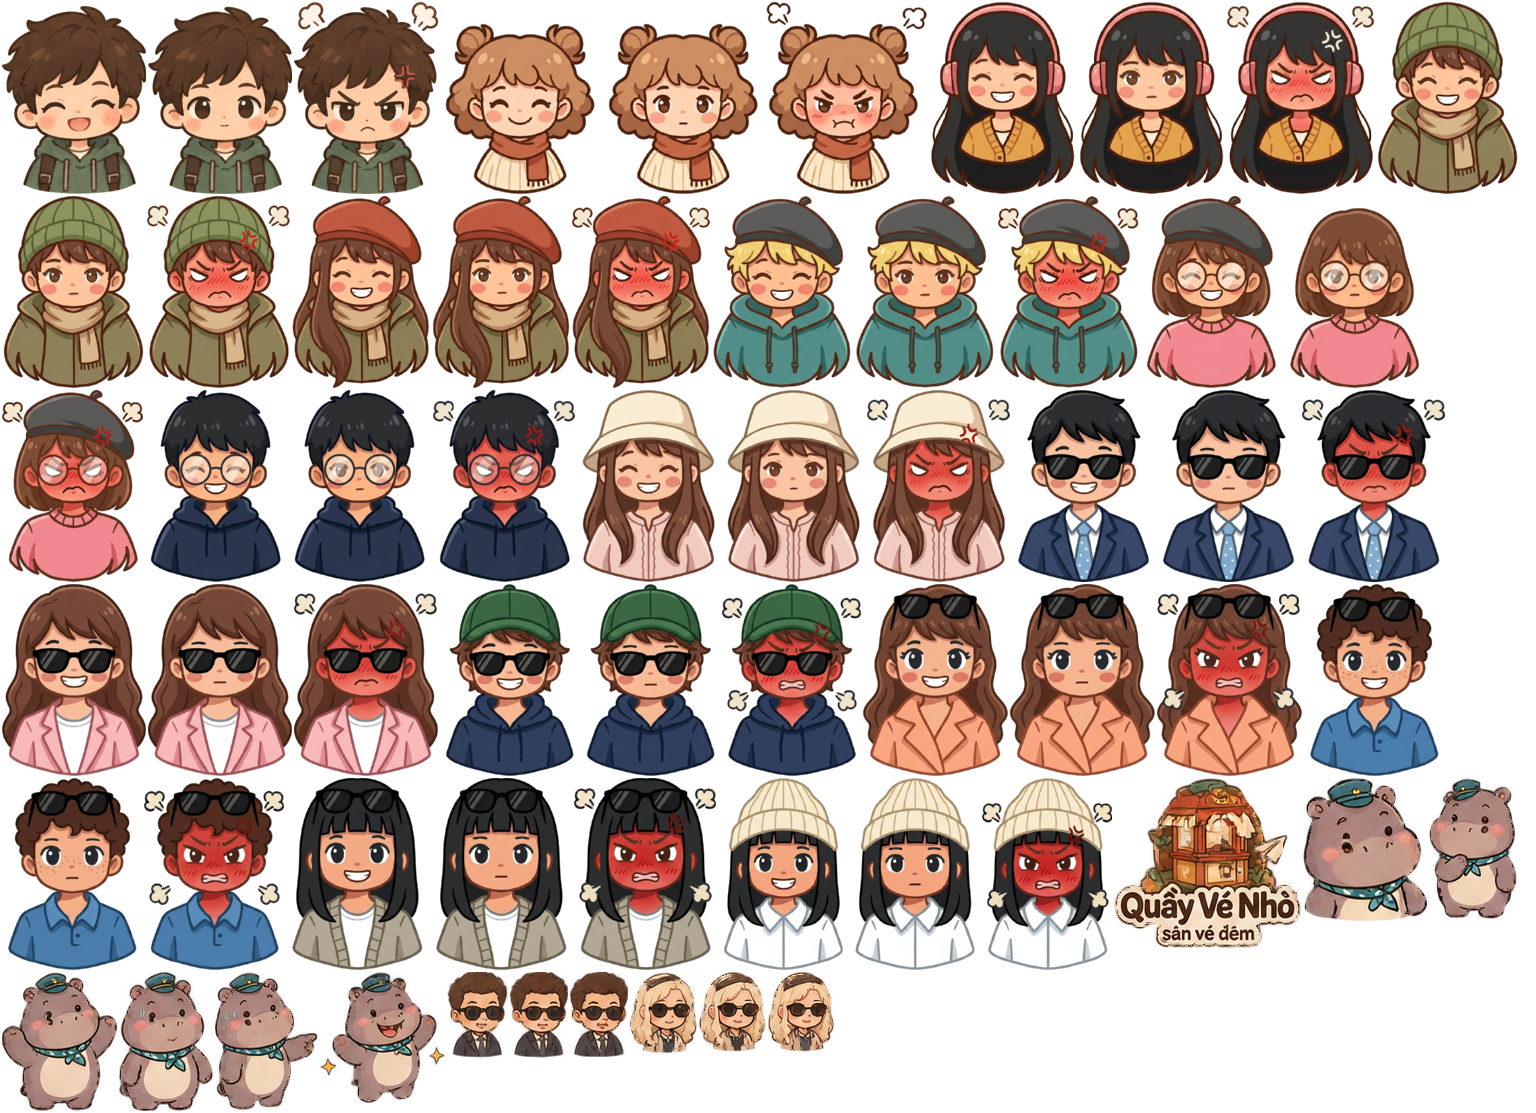
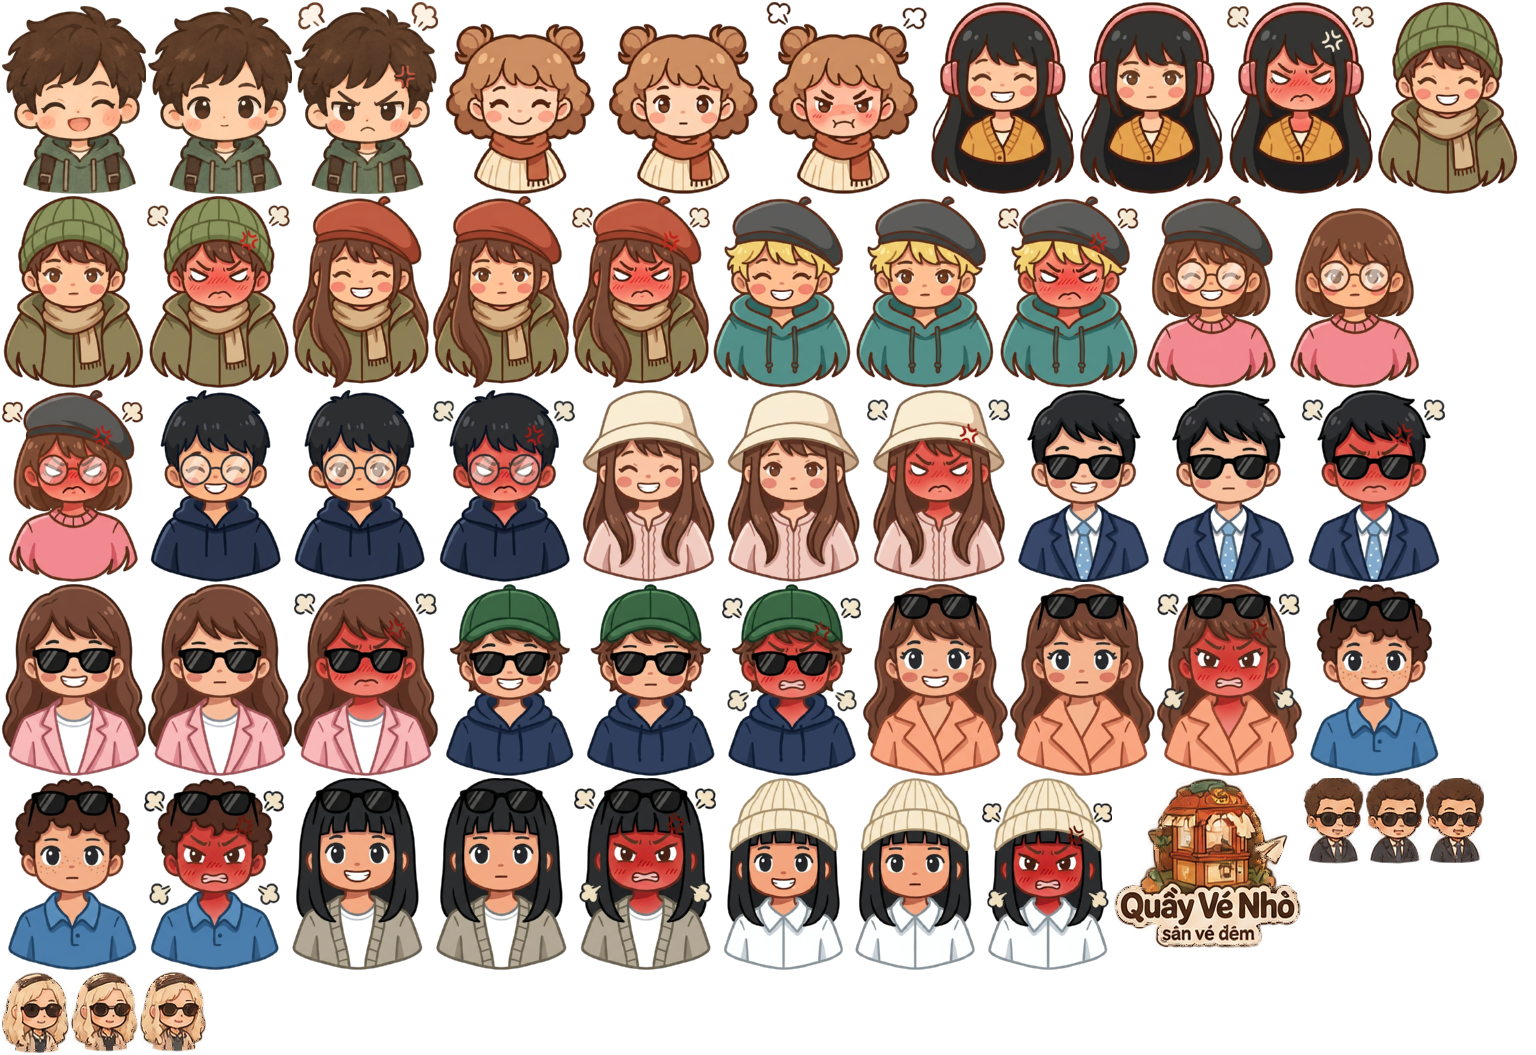
fix(save): never persist mid-shift, treat mid-shift saves as corrupt; feat(art): 9 high-res Beo poses in own atlas, tutorial poses

diff --git a/src/scenes/overlays/TutorialOverlay.ts b/src/scenes/overlays/TutorialOverlay.ts
@@ -5,7 +5,7 @@ import { scriptedMomentsFor } from '@domain/personal';
 import { TUTORIAL_FLAG_PREFIX, TUTORIAL_STEPS, type TutorialScene } from '@data/tutorial';
 import { BaseOverlay } from '@ui/BaseOverlay';
 import { Button } from '@ui/Button';
-import { addBeoFigure } from '@ui/BeoFigure';
+import { addBeoFigure, type BeoPose } from '@ui/BeoFigure';
 import { SpeechBubble } from '@ui/SpeechBubble';
 import { GAME_WIDTH } from '../../config';
 import { sessionBridge } from '../sessionBridge';
@@ -17,12 +17,25 @@ const BEO_X = 190;
 const BEO_BOTTOM_Y = 1100;
 const BEO_HEIGHT = 400;
 const BUTTON_Y = BUBBLE_Y + 190;
+/** Tư thế Béo theo từng bước hướng dẫn (mặc định: chào). */
+const TUTORIAL_POSES: Readonly<Record<string, BeoPose>> = {
+  prepDay1: 'greeting',
+  counterDay1: 'pointing',
+  baggageDay2: 'pointing',
+  seatPrefDay3: 'thinking',
+  businessDay4: 'proud',
+  timeAndExtrasDay5: 'thinking',
+  passportDay6: 'sly',
+  priceDay2: 'thinking',
+  rushFirst: 'excited',
+  weatherFirst: 'worried',
+};
 
 /** Một lời thoại của Béo (PLAN §10.11): bong bóng thoại + nút "Hiểu rồi". Đóng thì ghi cờ `flag` để không lặp lại. */
 class BeoMessageOverlay extends BaseOverlay {
-  constructor(scene: Phaser.Scene, message: string, flag: string | null, onDone: () => void) {
+  constructor(scene: Phaser.Scene, message: string, flag: string | null, pose: BeoPose, onDone: () => void) {
     super(scene, { closeOnBackdropTap: false });
-    const speaker = addBeoFigure(scene, BEO_X, BEO_BOTTOM_Y, BEO_HEIGHT, 'greeting');
+    const speaker = addBeoFigure(scene, BEO_X, BEO_BOTTOM_Y, BEO_HEIGHT, pose);
     const bubble = new SpeechBubble(scene, GAME_WIDTH / 2, BUBBLE_Y, { width: BUBBLE_WIDTH, text: message, speaker: STRINGS.tutorial.speaker, tailX: BUBBLE_TAIL_X });
     const confirm = new Button(scene, GAME_WIDTH / 2, BUTTON_Y, {
       width: 280,
@@ -54,7 +67,7 @@ export const showPendingTutorials = (scene: Phaser.Scene, sceneKey: TutorialScen
       return;
     }
     const message = STRINGS.tutorial[step.id as keyof typeof STRINGS.tutorial] ?? '';
-    new BeoMessageOverlay(scene, message, `${TUTORIAL_FLAG_PREFIX}${step.id}`, () => showNext(index + 1));
+    new BeoMessageOverlay(scene, message, `${TUTORIAL_FLAG_PREFIX}${step.id}`, TUTORIAL_POSES[step.id] ?? 'greeting', () => showNext(index + 1));
   };
   showNext(0);
 };
@@ -76,7 +89,7 @@ export const showScriptedMoments = (scene: Phaser.Scene, at: ScriptedMoment['at'
       releasePause();
       return;
     }
-    new BeoMessageOverlay(scene, entry.line, entry.flag, () => showNext(index + 1));
+    new BeoMessageOverlay(scene, entry.line, entry.flag, 'greeting', () => showNext(index + 1));
   };
   showNext(0);
 };

diff --git a/src/ui/BeoFigure.ts b/src/ui/BeoFigure.ts
@@ -1,9 +1,11 @@
 import Phaser from 'phaser';
-import { ATLAS_KEY, CustomerAvatar } from './CustomerAvatar';
+import { BEO_ATLAS_KEY, CustomerAvatar } from './CustomerAvatar';
 
-export type BeoPose = 'greeting' | 'excited' | 'sly' | 'worried' | 'pointing';
+export type BeoPose = 'greeting' | 'excited' | 'sly' | 'worried' | 'pointing' | 'proud' | 'sad' | 'thinking';
 
 const BUST_RADIUS_PER_HEIGHT = 0.45;
+/** Chiều cao gốc của khung toàn thân trong atlas (tools/buildAtlas.mjs): mọi tư thế dùng cùng tỉ lệ nên không to nhỏ lệch nhau. */
+const FULL_BODY_REFERENCE_HEIGHT = 420;
 
 /**
  * Béo đứng nói: ảnh toàn thân theo tư thế, chân đặt ở `bottomY`. Nếu chưa có ảnh trong atlas thì dùng
@@ -12,9 +14,9 @@ const BUST_RADIUS_PER_HEIGHT = 0.45;
 export const addBeoFigure = (scene: Phaser.Scene, x: number, bottomY: number, height: number, pose: BeoPose): Phaser.GameObjects.Container => {
   const holder = scene.add.container(x, bottomY);
   const frame = `beo_${pose}`;
-  if (scene.textures.exists(ATLAS_KEY) && scene.textures.get(ATLAS_KEY).has(frame)) {
-    const image = scene.add.image(0, 0, ATLAS_KEY, frame).setOrigin(0.5, 1);
-    image.setScale(height / image.height);
+  if (scene.textures.exists(BEO_ATLAS_KEY) && scene.textures.get(BEO_ATLAS_KEY).has(frame)) {
+    const image = scene.add.image(0, 0, BEO_ATLAS_KEY, frame).setOrigin(0.5, 1);
+    image.setScale(height / FULL_BODY_REFERENCE_HEIGHT);
     holder.add(image);
     return holder;
   }

diff --git a/src/ui/CustomerAvatar.ts b/src/ui/CustomerAvatar.ts
@@ -17,11 +17,14 @@ const hashSpriteId = (spriteId: string): number =>
 export type AvatarMood = 'happy' | 'neutral' | 'angry';
 
 export const ATLAS_KEY = 'characters';
+/** Béo ở atlas riêng (ảnh lớn hơn khách). */
+export const BEO_ATLAS_KEY = 'beo';
 /** Tỉ lệ chiều cao ảnh so với bán kính: ảnh bust cao hơn hình tròn vẽ bằng code một chút. */
 const IMAGE_HEIGHT_PER_RADIUS = 2.6;
 const SPEAKER_FRAME_BY_ID: Record<string, string> = { beo: 'beo_bust' };
 
 const frameFor = (spriteId: string, mood: AvatarMood): string => SPEAKER_FRAME_BY_ID[spriteId] ?? `cus_${spriteId}_${mood}`;
+const atlasFor = (spriteId: string): string => (spriteId in SPEAKER_FRAME_BY_ID ? BEO_ATLAS_KEY : ATLAS_KEY);
 
 export class CustomerAvatar extends Phaser.GameObjects.Container {
   private readonly image: Phaser.GameObjects.Image | null = null;
@@ -31,8 +34,9 @@ export class CustomerAvatar extends Phaser.GameObjects.Container {
     super(scene, x, y);
     this.spriteId = spriteId;
     const frame = frameFor(spriteId, mood);
-    if (scene.textures.exists(ATLAS_KEY) && scene.textures.get(ATLAS_KEY).has(frame)) {
-      const image = scene.add.image(0, 0, ATLAS_KEY, frame);
+    const atlas = atlasFor(spriteId);
+    if (scene.textures.exists(atlas) && scene.textures.get(atlas).has(frame)) {
+      const image = scene.add.image(0, 0, atlas, frame);
       image.setScale((radius * IMAGE_HEIGHT_PER_RADIUS) / image.height);
       this.image = image;
       this.add(image);

diff --git a/src/save/storage.ts b/src/save/storage.ts
@@ -10,6 +10,8 @@ export type LoadSaveReason = 'EMPTY' | 'CORRUPTED' | 'FUTURE_VERSION';
 type RawLoadResult = { ok: true; value: GameState } | { ok: false; reason: LoadSaveReason };
 export type LoadSaveResult = { ok: true; value: GameState; recoveredFromBackup: boolean } | { ok: false; reason: LoadSaveReason };
 
+const isMidShift = (phase: GameState['phase']): boolean => phase === 'OPEN' || phase === 'CLOSING';
+
 export const parseSaveJson = (json: string): RawLoadResult => {
   let raw: unknown;
   try {
@@ -32,6 +34,8 @@ export const parseSaveJson = (json: string): RawLoadResult => {
   if (!parsed.success) {
     return { ok: false, reason: 'CORRUPTED' };
   }
+  // Save giữa ca (OPEN/CLOSING) không bao giờ hợp lệ: GameSession từ chối nạp (PLAN §6.6) — coi như hỏng để rơi về bản sao lưu.
+  if (isMidShift(parsed.data.phase)) return { ok: false, reason: 'CORRUPTED' };
   return { ok: true, value: parsed.data as GameState };
 };
 
@@ -61,6 +65,8 @@ export const loadSave = (): LoadSaveResult => {
 
 /** Ghi save mới; bản cũ (nếu có) được giữ lại làm backup trước khi ghi đè. */
 export const writeSave = (state: GameState): void => {
+  // PLAN §6.6: không lưu giữa ca; cờ/cài đặt đổi trong ca sẽ được lưu ở mốc cuối ngày.
+  if (isMidShift(state.phase)) return;
   try {
     const previous = localStorage.getItem(SAVE_KEY);
     if (previous !== null) {

diff --git a/src/scenes/PreloadScene.ts b/src/scenes/PreloadScene.ts
@@ -1,7 +1,7 @@
 import { devError } from '@platform/logger';
 import { STRINGS } from '@data/strings';
 import { Button } from '@ui/Button';
-import { ATLAS_KEY } from '@ui/CustomerAvatar';
+import { ATLAS_KEY, BEO_ATLAS_KEY } from '@ui/CustomerAvatar';
 import { TEXT_STYLES } from '@ui/textStyles';
 import { FONT_LOAD_SPECS } from '@ui/theme';
 import { GAME_HEIGHT, GAME_WIDTH } from '../config';
@@ -22,6 +22,7 @@ export class PreloadScene extends BaseScene {
   /** Tải atlas nhân vật (khách, Béo, logo); lỗi tải được báo ở `onCreate` bằng nút "Thử lại". */
   preload(): void {
     this.load.atlas(ATLAS_KEY, 'assets/atlas/characters.png', 'assets/atlas/characters.json');
+    this.load.atlas(BEO_ATLAS_KEY, 'assets/atlas/beo.png', 'assets/atlas/beo.json');
   }
 
   protected onCreate(): void {
@@ -32,7 +33,7 @@ export class PreloadScene extends BaseScene {
   private async loadFonts(): Promise<void> {
     try {
       await Promise.all(FONT_LOAD_SPECS.map((spec) => document.fonts.load(spec, 'Việt')));
-      if (!this.textures.exists(ATLAS_KEY)) throw new Error('atlas nhân vật không tải được');
+      if (!this.textures.exists(ATLAS_KEY) || !this.textures.exists(BEO_ATLAS_KEY)) throw new Error('atlas nhân vật không tải được');
     } catch (error) {
       this.showRetry(error);
       return;

diff --git a/src/save/storage.test.ts b/src/save/storage.test.ts
@@ -68,6 +68,24 @@ describe('storage', () => {
     expect(result.ok && result.value.money).toBe(0);
   });
 
+  it('không ghi save khi đang giữa ca (OPEN/CLOSING)', () => {
+    const state = createNewGame(1);
+    writeSave(state);
+    const midShift = { ...state, phase: 'OPEN' as const, money: 999 };
+    writeSave(midShift);
+    const loaded = loadSave();
+    expect(loaded.ok && loaded.value.money).toBe(state.money);
+  });
+
+  it('save giữa ca đã nằm sẵn trong localStorage thì rơi về bản sao lưu hợp lệ', () => {
+    const good = createNewGame(1);
+    writeSave(good);
+    writeSave({ ...good, money: good.money + 1 });
+    localStorage.setItem(SAVE_KEY, JSON.stringify({ ...good, phase: 'OPEN' }));
+    const loaded = loadSave();
+    expect(loaded).toMatchObject({ ok: true, recoveredFromBackup: true });
+  });
+
   it('clearSave xoá cả save chính lẫn backup', () => {
     writeSave(createNewGame(1));
     writeSave(createNewGame(2));

diff --git a/docs/VIEC_CHUA_LAM.md b/docs/VIEC_CHUA_LAM.md
@@ -55,3 +55,9 @@ Cập nhật: 2026-10-02. Mỗi mục ghi lý do chưa làm và cần gì từ b
 - **Còn dùng ảnh cũ độ phân giải thấp:** 2 khách VIP, Béo (6 tư thế), logo. Cần tạo lại theo `docs/PROMPT_ANH_V2.md` mục 1 (Béo), 2 (VIP), 3 (logo).
 - **Chưa có:** nền màn hình (Quầy, Kho, Tổng kết, Shop, Title), icon, nút/bảng UI, bưu thiếp tuyến bay.
 - Ghi chú: thứ tự gán c01–c16 theo `CUSTOMER_FILES` trong `tools/buildAtlas.mjs` (c10 là người đàn ông kính râm vest).
+
+## 9. Béo độ phân giải cao (đã nhận 2026-10-04)
+
+- **Đã dùng:** 9 tư thế (chào, phấn khích, tinh nghịch, lo lắng, chỉ tay, tự hào, buồn, suy nghĩ, bust) ở atlas riêng `public/assets/atlas/beo.*`. Onboarding và tutorial dùng tư thế theo từng bước.
+- **Còn dùng ảnh cũ độ phân giải thấp:** 2 khách VIP, logo.
+- **Lỗi đã sửa kèm theo:** save bị ghi giữa ca (cờ tutorial/cài đặt) làm nút "Chơi tiếp" không vào được; nay không ghi save giữa ca và save hỏng như vậy tự rơi về bản sao lưu.
